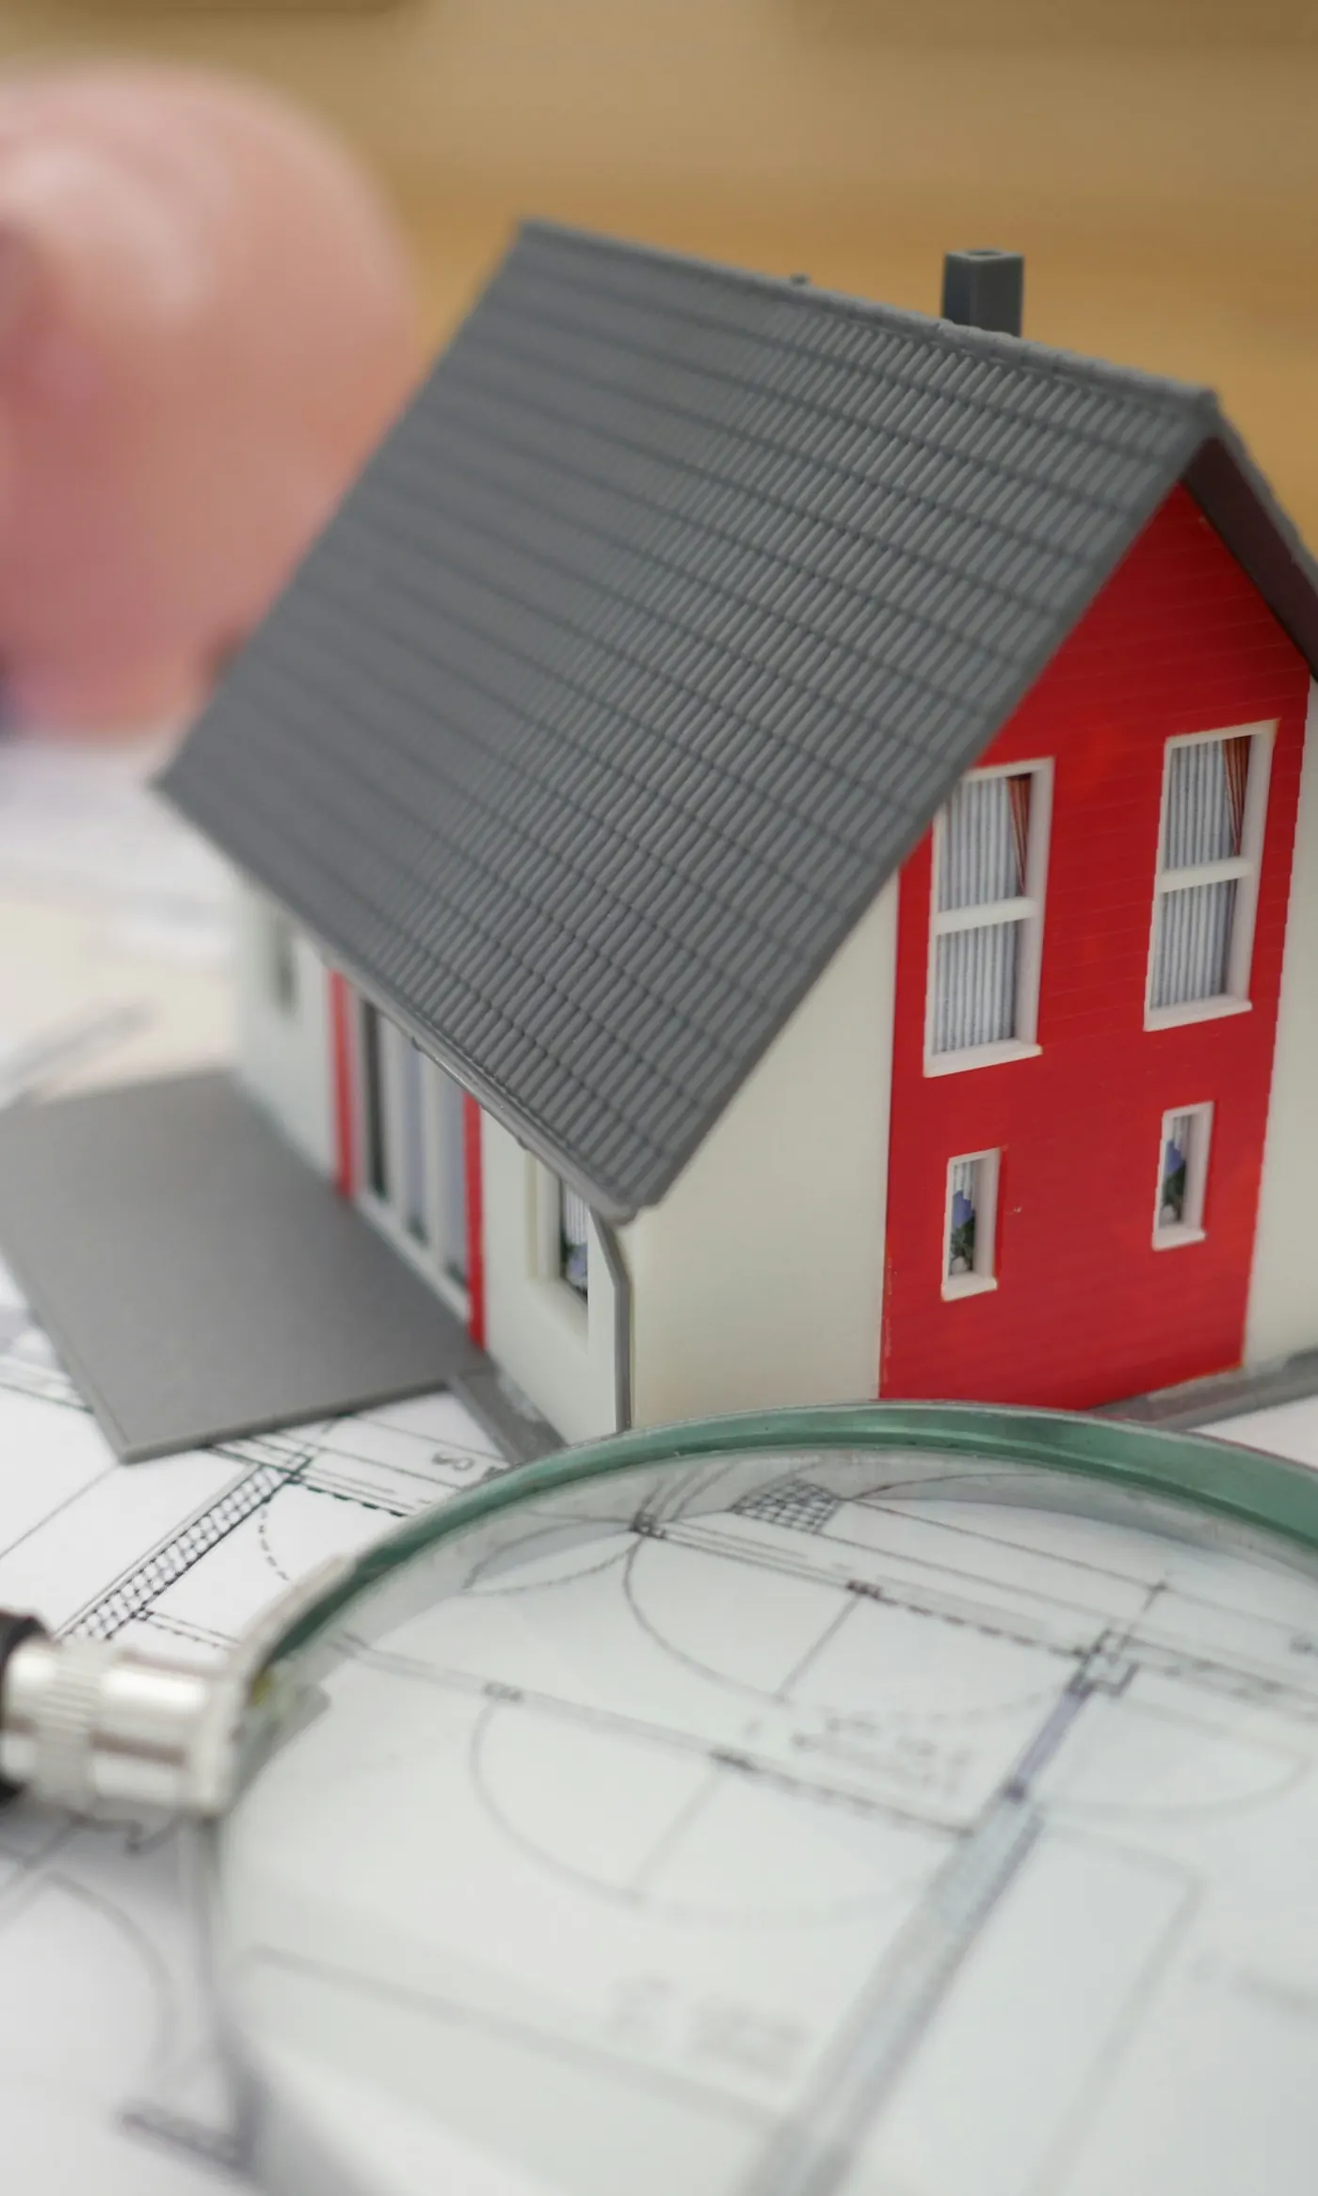
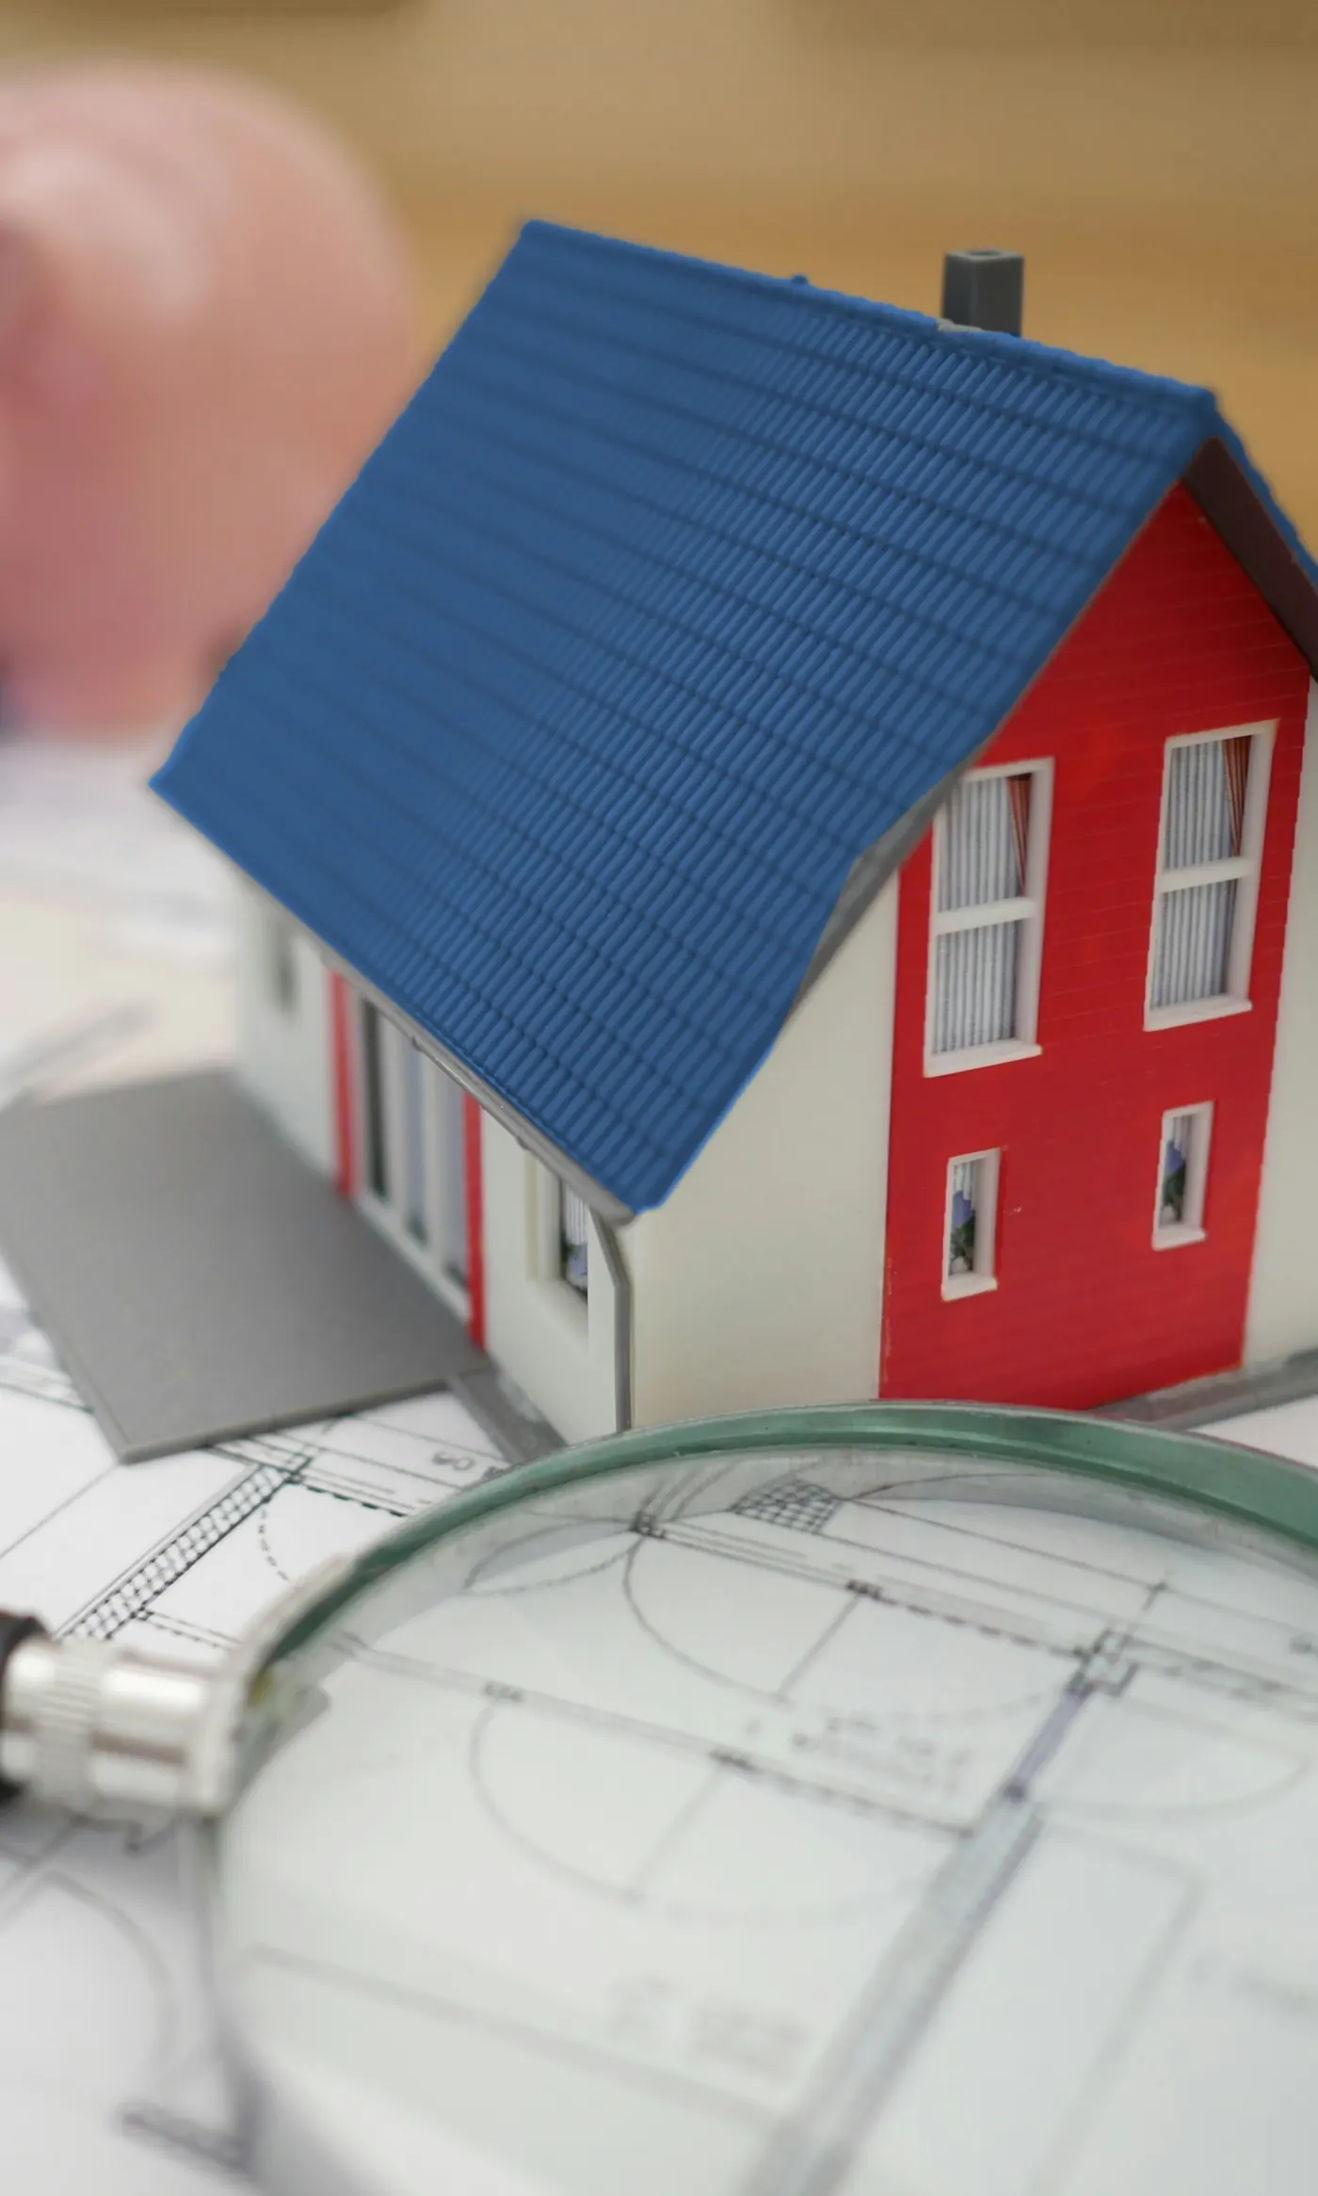
Ilonkas Mail vom 08.11. umgesetzt: Abschluss-Links, Zinscharts, Bewertungen, blaues Dach
- Procheck24-Links: Ratenkredit, Tagesgeld, Girokonto (Geldanlage), Kfz-Versicherung
  (Versicherungen, neben Care Concept)
- Baufinanzierung: Starpool-Zinscharts und Platz für den Angebotslink vom
  Maklerpool (CMS-Feld "Link zur Angebotsanforderung", bis dahin Anfrageformular)
- Bewertungen: Widgets von KennstDuEinen und ImmobilienScout24
- Zinscharts und Widgets laden erst nach Klick (Einwilligung, im Browser gemerkt),
  Datenschutzerklärung ergänzt
- 528 Bewertungen von 4 Portalen statt 80, Plakette neben dem Gold-Siegel
- Einblendung CASH-Auszeichnung (Platz 1 Kundenzufriedenheit, Ausgabe 01.2016),
  im CMS abschaltbar
- Titelbild Baufinanzierung: Hausmodell mit blauem Dach

Claude-Session: https://claude.ai/code/session_01J9JEsdcecjFsMGsC3GDkAA

Changed region(s): [[0.1229, 0.0926, 0.9521, 0.5555], [0.9829, 0.2469, 1.0, 0.2778], [0.9521, 0.216, 0.9829, 0.2469]]

diff --git a/src/components/ExternalEmbed.tsx b/src/components/ExternalEmbed.tsx
@@ -1,0 +1,91 @@
+"use client";
+
+import Link from "next/link";
+import { useEffect, useRef, useState } from "react";
+
+/**
+ * Inhalte fremder Anbieter (Zinscharts, Bewertungs-Widgets) erst nach Klick laden.
+ * Vorher geht keine Verbindung zum Anbieter raus. Die Zustimmung gilt für alle drei
+ * Inhalte und wird im Browser gemerkt (siehe Datenschutzerklärung).
+ */
+type Kind = "zinscharts" | "kennstdueinen" | "immoscout";
+
+const INFO: Record<Kind, { title: string; provider: string }> = {
+  zinscharts: { title: "Aktuelle Zinscharts", provider: "der Starpool Finanz GmbH" },
+  kennstdueinen: { title: "Bewertungen bei KennstDuEinen", provider: "KennstDuEinen.de (inklusive Schriften von Google Fonts)" },
+  immoscout: { title: "Bewertungen bei ImmobilienScout24", provider: "der Immobilien Scout GmbH" },
+};
+
+const KEY = "b4u-externe-inhalte";
+const EVT = "b4u-extern";
+
+export default function ExternalEmbed({ kind }: { kind: Kind }) {
+  const [on, setOn] = useState(false);
+  const box = useRef<HTMLDivElement>(null);
+
+  useEffect(() => {
+    try {
+      if (localStorage.getItem(KEY) === "1") setOn(true);
+    } catch {}
+    const onAllow = () => setOn(true);
+    window.addEventListener(EVT, onAllow);
+    return () => window.removeEventListener(EVT, onAllow);
+  }, []);
+
+  // Widgets bringen ihr eigenes Skript mit: erst nach der Zustimmung einsetzen
+  useEffect(() => {
+    const el = box.current;
+    if (!on || !el || kind === "zinscharts") return;
+    el.innerHTML = "";
+    if (kind === "kennstdueinen") {
+      const a = document.createElement("a");
+      a.className = "kennstdueinen-widget";
+      a.href = "https://www.kennstdueinen.de/baufinanzierung-stahnsdorf-banken4u-ilonka-karras-d100037.html";
+      a.textContent = "Bewertungen für Banken4U - Ilonka Karras - KennstDuEinen.de";
+      el.appendChild(a);
+      const s = document.createElement("script");
+      s.src = "https://www.kennstdueinen.de/widget/widgetv2/100037/kde-widget-responsive/8/kde/googlefont/4/Open%2BSans%3A400%2C600%2C400italic%2C600italic";
+      el.appendChild(s);
+    } else {
+      const s = document.createElement("script");
+      s.id = "is24BaufinanzierungWidget";
+      s.setAttribute("is24-provider", "77");
+      s.src = "https://www.immobilienscout24.de/baufinanzierung/static/js/rating-widget.js";
+      el.appendChild(s);
+    }
+  }, [on, kind]);
+
+  const allow = () => {
+    try {
+      localStorage.setItem(KEY, "1");
+    } catch {}
+    window.dispatchEvent(new Event(EVT));
+    setOn(true);
+  };
+
+  const info = INFO[kind];
+
+  if (on) {
+    return kind === "zinscharts" ? (
+      <div className="ext zins-frame">
+        <iframe scrolling="no" src="https://portal.starpool.de/interestRateCharts/0175eef1-cddd-4e55-89a1-5ed067ba42c7" title="Aktuelle Zinscharts der Starpool Finanz GmbH" loading="lazy" />
+      </div>
+    ) : (
+      <div className="ext ext-widget" ref={box} />
+    );
+  }
+
+  return (
+    <div className={`ext ext-gate${kind === "zinscharts" ? " ext-gate-big" : ""}`}>
+      <b>{info.title}</b>
+      <p>
+        Dieser Inhalt kommt von {info.provider}. Erst wenn Sie ihn laden, baut Ihr Browser eine Verbindung zum Anbieter auf und überträgt dabei Daten wie Ihre IP-Adresse.{" "}
+        <Link href="/datenschutz/">Mehr in der Datenschutzerklärung</Link>
+      </p>
+      <button type="button" className="btn btn-tanne" onClick={allow}>
+        Inhalt laden
+      </button>
+      <small>Ihre Wahl gilt für alle eingebundenen Inhalte und wird in diesem Browser gespeichert.</small>
+    </div>
+  );
+}

diff --git a/src/app/globals.css b/src/app/globals.css
@@ -859,3 +859,39 @@ input[type="range"]::-moz-range-thumb { width: 18px; height: 18px; background: v
 
 /* Auf blauem Grund: Akzente weiß statt rot (Rot auf Logo-Blau ist schlecht lesbar) */
 .dark .step-num, .process .step-num, .dark .steps-mini span, .dark .milestones span { color: #fff; }
+
+/* Bewertungs-Plakette neben dem Gold-Siegel */
+.siegel-row { gap: 12px; align-items: flex-start; }
+.siegel-rating { width: 104px; aspect-ratio: 120 / 153; background: var(--tanne); color: #fff; display: flex; flex-direction: column; align-items: center; justify-content: center; gap: 5px; text-align: center; padding: 10px 6px; box-shadow: 0 6px 16px rgba(4, 12, 24, 0.28); }
+.siegel-rating b { font-family: var(--font-serif); font-weight: 400; font-size: 1.7rem; line-height: 1; }
+.siegel-rating b small { font-size: 0.85rem; opacity: 0.85; margin-left: 1px; }
+.siegel-rating .stars { display: flex; gap: 1px; color: #f5b301; }
+.siegel-rating .stars svg { width: 13px; height: 13px; }
+.siegel-rating span { font-size: 0.78rem; font-weight: 600; letter-spacing: 0.02em; }
+.siegel-rating > small { font-size: 0.66rem; line-height: 1.25; opacity: 0.92; }
+@media (max-width: 640px) { .siegel-rating { display: none; } }
+/* Einblendung der Auszeichnung */
+.award span { max-width: 52ch; }
+.sec-head .award { padding-top: 18px; }
+/* Externe Inhalte: erst nach Klick laden */
+.ext { min-width: 0; }
+.ext-gate { border: 1px solid var(--linie); background: #fafbfd; padding: clamp(22px, 2.4vw, 36px); display: grid; gap: 14px; align-content: center; justify-items: start; min-height: 260px; }
+.ext-gate-big { min-height: clamp(320px, 36vw, 520px); }
+.ext-gate b { font-family: var(--font-serif); font-weight: 400; font-size: clamp(1.4rem, 1.8vw, 1.9rem); color: var(--tanne); }
+.ext-gate p { margin: 0; max-width: 58ch; color: var(--text-2); font-size: 0.95rem; }
+.ext-gate p a { border-bottom: 1px solid var(--linie); }
+.ext-gate small { color: var(--grau); font-size: 0.82rem; }
+.ext-widget { min-height: 200px; }
+.zins-frame { position: relative; width: 100%; height: 100vh; }
+.zins-frame iframe { position: absolute; inset: 0; width: 100%; height: 100%; border: 0; overflow: hidden; }
+@media (min-width: 400px) { .zins-frame { height: 70vh; } }
+@media (min-width: 992px) { .zins-frame { height: auto; padding-bottom: 66%; min-height: 500px; } }
+.zins-grid { display: grid; grid-template-columns: minmax(0, 2.3fr) minmax(0, 1fr); gap: clamp(20px, 2.6vw, 48px); align-items: start; }
+.zins-angebot { border-top: 1px solid var(--tinte); padding-top: 22px; display: grid; gap: 16px; justify-items: start; position: sticky; top: 110px; }
+.zins-angebot h3 { font-size: clamp(1.5rem, 2vw, 2.1rem); }
+.zins-angebot p { margin: 0; color: var(--text-2); }
+.portal-widgets { display: grid; grid-template-columns: repeat(2, minmax(0, 1fr)); gap: clamp(12px, 1.6vw, 24px); align-items: start; }
+@media (max-width: 980px) {
+  .zins-grid, .portal-widgets { grid-template-columns: 1fr; }
+  .zins-angebot { position: static; }
+}

diff --git a/src/components/ServiceView.tsx b/src/components/ServiceView.tsx
@@ -3,6 +3,7 @@ import type { Metadata } from "next";
 import PageHero, { type Crumb } from "./PageHero";
 import Faq from "./Faq";
 import { Split } from "./Split";
+import ExternalEmbed from "./ExternalEmbed";
 import { IconArrow, IconCheck } from "./Icons";
 import { services } from "@/content/services";
 import { site } from "@/content/site";
@@ -128,7 +129,44 @@ export default function ServiceView({ slug }: { slug: string }) {
           </section>
         ) : null}
 
-        <section className="sec" style={{ paddingTop: isHub ? undefined : 0 }}>
+        {isHub ? (
+          <section className="sec" aria-labelledby="zinsen-titel">
+            <div className="wrap">
+              <div className="sec-head">
+                <Split id="zinsen-titel" className="t-h2" text="Aktuelle Bauzinsen." />
+                <p data-reveal>Die Zinscharts zeigen, wie sich die Bauzinsen zuletzt entwickelt haben. Ihr eigener Zins hängt von Eigenkapital, Zinsbindung und Objekt ab. Den rechne ich Ihnen gern konkret aus.</p>
+              </div>
+              <div className="zins-grid">
+                <ExternalEmbed kind="zinscharts" />
+                <aside className="zins-angebot" data-reveal>
+                  <h3>Ihr Finanzierungsangebot</h3>
+                  <p>
+                    {s.angebotLink
+                      ? "Hier fordern Sie Ihr Angebot direkt online an. Ihre Angaben kommen ohne Umweg in mein Baufinanzierungsprogramm, und ich melde mich mit den ersten Zahlen bei Ihnen."
+                      : "Schicken Sie mir Ihre Eckdaten über das Anfrageformular. Ich melde mich mit den ersten Zahlen und den nächsten Schritten bei Ihnen."}
+                  </p>
+                  {s.angebotLink ? (
+                    <a className="btn btn-messing" href={s.angebotLink} target="_blank" rel="noopener">
+                      Angebot online anfordern
+                      <IconArrow />
+                    </a>
+                  ) : (
+                    <Link className="btn btn-messing" href="/angebot/">
+                      Angebot anfordern
+                      <IconArrow />
+                    </Link>
+                  )}
+                  <a className="link-u" href={site.phoneHref}>
+                    Lieber anrufen: {site.phone}
+                    <IconArrow />
+                  </a>
+                </aside>
+              </div>
+            </div>
+          </section>
+        ) : null}
+
+        <section className="sec" style={{ paddingTop: 0 }}>
           <div className="wrap">
             <div className="chapters">
               {s.sections.map((sec) => (

diff --git a/src/app/bewertungen/page.tsx b/src/app/bewertungen/page.tsx
@@ -4,6 +4,7 @@ import Band from "@/components/Band";
 import { Split } from "@/components/Split";
 import { IconArrow, Stars } from "@/components/Icons";
 import ReviewSlider from "@/components/ReviewSlider";
+import ExternalEmbed from "@/components/ExternalEmbed";
 import { site } from "@/content/site";
 import seiten from "../../../content/seiten.json";
 
@@ -28,7 +29,7 @@ export default function Page() {
           <div>
             <Stars />
             <p>
-              aus {site.ratingCount} geprüften Bewertungen bei KennstDuEinen, zusätzlich Bewertungen bei ImmobilienScout24
+              aus {site.ratingCount} Bewertungen von {site.ratingSources} Portalen, darunter KennstDuEinen und ImmobilienScout24
             </p>
           </div>
         </div>
@@ -53,6 +54,26 @@ export default function Page() {
               </div>
             </div>
             <ReviewSlider />
+          </div>
+        </section>
+        <section className="sec" style={{ paddingTop: 0 }} aria-labelledby="portale-titel">
+          <div className="wrap">
+            <div className="sec-head">
+              <Split id="portale-titel" className="t-h2" text="Direkt von den Portalen." />
+              <div data-reveal>
+                <p style={{ margin: 0 }}>Hier sehen Sie die aktuellen Bewertungen so, wie KennstDuEinen und ImmobilienScout24 sie anzeigen.</p>
+                {site.auszeichnung ? (
+                  <p className="award">
+                    <svg viewBox="0 0 24 24" fill="none" stroke="currentColor" strokeWidth="1.4" aria-hidden><circle cx="12" cy="9" r="6" /><path d="M8.5 13.8 7 22l5-3 5 3-1.5-8.2" /><path d="m12 6.2.9 1.9 2 .3-1.5 1.4.4 2-1.8-1-1.8 1 .4-2-1.5-1.4 2-.3z" /></svg>
+                    <span>{site.auszeichnung}</span>
+                  </p>
+                ) : null}
+              </div>
+            </div>
+            <div className="portal-widgets">
+              <ExternalEmbed kind="kennstdueinen" />
+              <ExternalEmbed kind="immoscout" />
+            </div>
           </div>
         </section>
         <section className="sec alt" aria-labelledby="cta-titel">

diff --git a/src/content/images.ts b/src/content/images.ts
@@ -4,7 +4,7 @@ export type ImgKey = keyof typeof sizes;
 
 export const images: Record<string, { alt: string; pos?: string }> = {
   hero: { alt: "Modellhaus mit roter Giebelfront und Hausschlüssel auf einem Holztisch", pos: "100% 40%" },
-  bauhub: { alt: "Hausmodell mit rotem Giebel auf einem Bauplan, davor eine Lupe, dahinter ein Sparschwein", pos: "60% 40%" },
+  bauhub: { alt: "Hausmodell mit blauem Dach und rotem Giebel auf einem Bauplan, davor eine Lupe, dahinter ein Sparschwein", pos: "60% 40%" },
   schluessel: { alt: "Hand hält Hausschlüssel mit Anhänger in Hausform im Flur eines neuen Zuhauses", pos: "50% 40%" },
   kauf: { alt: "Hausmodell im Querschnitt mit eingestecktem 50-Euro-Schein und Haustürschlüssel auf Auswertungen", pos: "40% 40%" },
   neubau: { alt: "Einfamilienhaus im Rohbau: Ziegelmauerwerk mit frisch aufgestelltem Dachstuhl und Schalung vor blauem Himmel", pos: "50% 45%" },
@@ -27,7 +27,7 @@ export const images: Record<string, { alt: string; pos?: string }> = {
 };
 
 /** Versionsnummer der Bilder: bei jedem Bildtausch erhöhen, damit Browser keine alte Fassung aus dem Cache zeigen. */
-export const IMG_V = "6";
+export const IMG_V = "7";
 export const img = (file: string) => `/img/${file}?v=${IMG_V}`;
 
 /** Bildangabe aus dem Bearbeitungsbereich normalisieren: "/img/rechner.webp" → Bildschlüssel "rechner" (mit Handy- und Kleinfassungen). */

diff --git a/src/components/Siegel.tsx b/src/components/Siegel.tsx
@@ -1,9 +1,25 @@
 import { img } from "@/content/images";
+import { site } from "@/content/site";
+import { Stars } from "./Icons";
 
-/** Siegel „Gold Partner Baufinanzierung“ von ImmoScout24, oben rechts im Kopfbild jeder Seite. */
+/**
+ * Oben rechts im Kopfbild jeder Seite: Siegel „Gold Partner Baufinanzierung“ von ImmoScout24
+ * und daneben die Gesamtbewertung über alle Portale (Zahlen aus den Allgemeinen Angaben im CMS).
+ */
 export function Siegel() {
   return (
     <div className="siegel-row wrap">
+      <div className="siegel-rating" role="img" aria-label={`Bewertung ${site.rating} von 5 Sternen aus ${site.ratingCount} Bewertungen von ${site.ratingSources} Portalen`}>
+        <b>
+          {site.rating}
+          <small>/5</small>
+        </b>
+        <Stars />
+        <span>Sehr gut</span>
+        <small>
+          {site.ratingCount} Bewertungen von {site.ratingSources} Portalen
+        </small>
+      </div>
       <img
         className="siegel"
         src={img("siegel-goldpartner-120.webp")}

diff --git a/src/app/page.tsx b/src/app/page.tsx
@@ -188,6 +188,12 @@ export default function Home() {
                     <IconArrow />
                   </a>
                 </div>
+                {site.auszeichnung ? (
+                  <p className="award" data-reveal>
+                    <svg viewBox="0 0 24 24" fill="none" stroke="currentColor" strokeWidth="1.4" aria-hidden><circle cx="12" cy="9" r="6" /><path d="M8.5 13.8 7 22l5-3 5 3-1.5-8.2" /><path d="m12 6.2.9 1.9 2 .3-1.5 1.4.4 2-1.8-1-1.8 1 .4-2-1.5-1.4 2-.3z" /></svg>
+                    <span>{site.auszeichnung}</span>
+                  </p>
+                ) : null}
               </div>
             </div>
             <ReviewSlider />

diff --git a/src/components/HomeHero.tsx b/src/components/HomeHero.tsx
@@ -73,7 +73,7 @@ export default function HomeHero() {
             <div className="proof">
               <Stars />
               <strong>{site.rating}</strong>
-              <span>aus {site.ratingCount} geprüften Bewertungen</span>
+              <span>aus {site.ratingCount} Bewertungen</span>
             </div>
             <div className="btns">
               <a className="btn btn-hell" href={site.phoneHref}>

diff --git a/src/content/types.ts b/src/content/types.ts
@@ -52,6 +52,8 @@ export type ServicePage = {
   linksText?: string;
   /** Direkte Abschlussmöglichkeiten (Rechner, Antragsstrecken der Partner) */
   links?: { label: string; href: string; text?: string }[];
+  /** Link zur Angebotsanforderung beim Maklerpool (nur Baufinanzierung-Übersicht) */
+  angebotLink?: string;
 };
 
 export type Article = {
